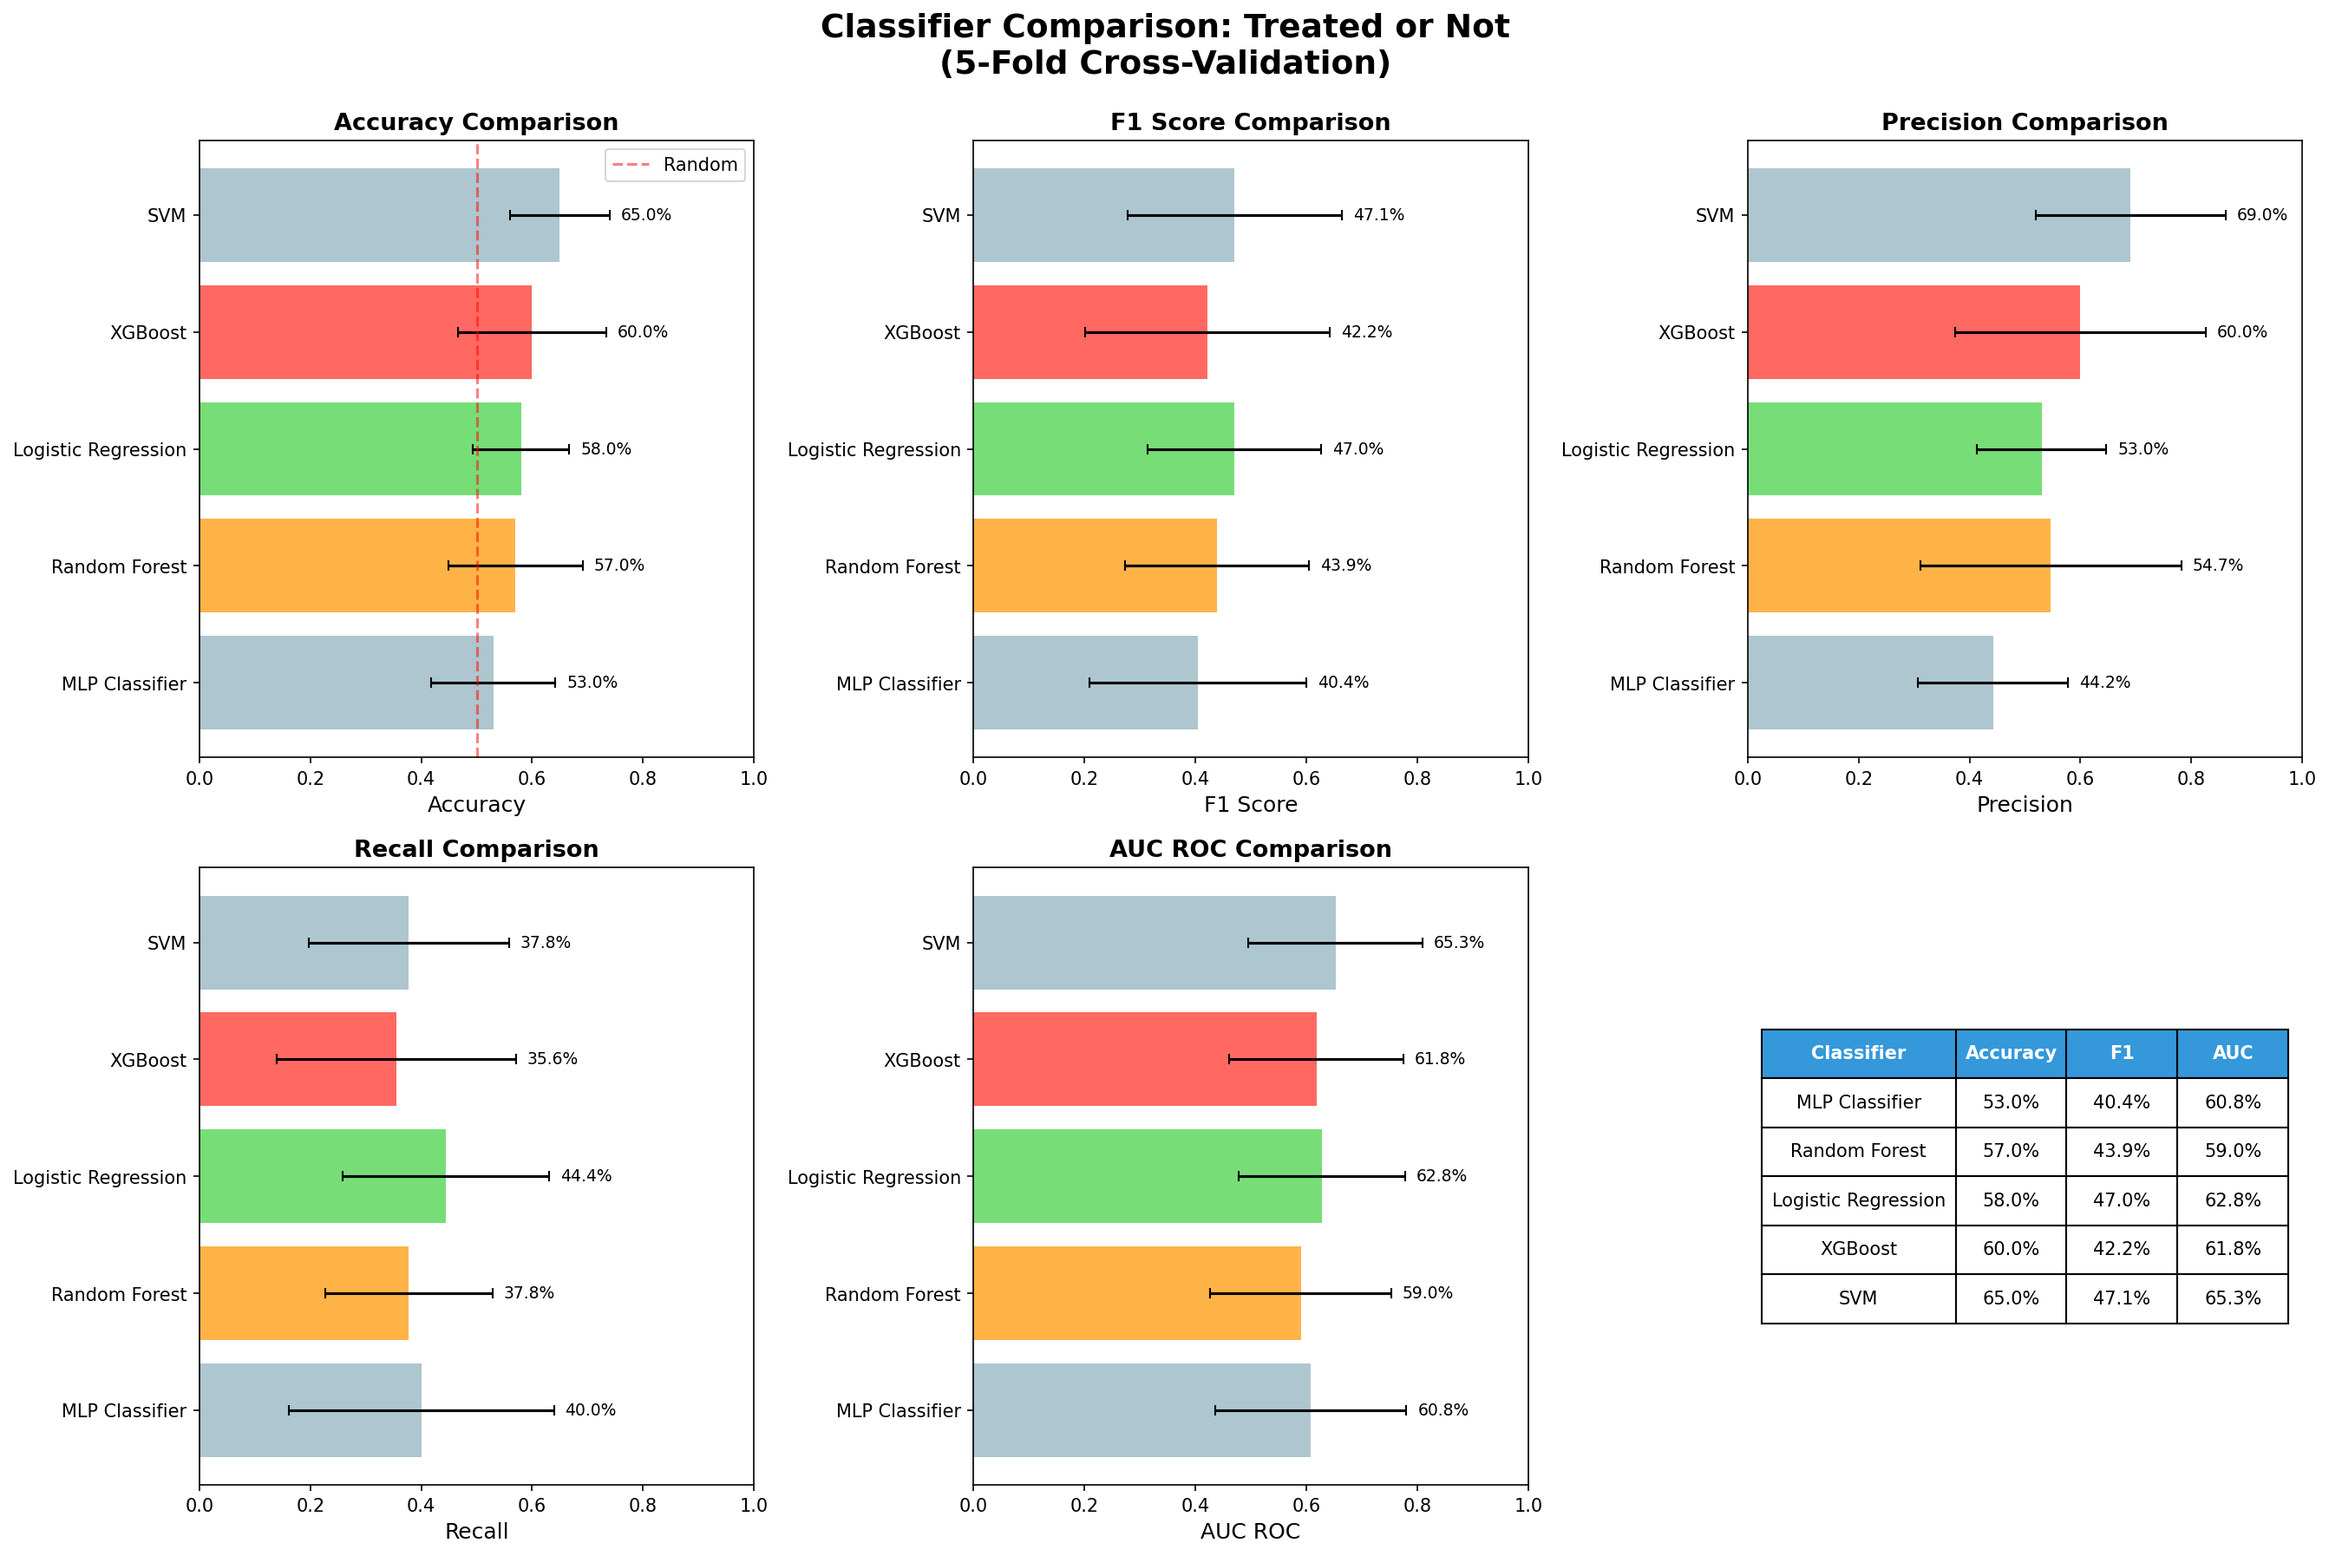
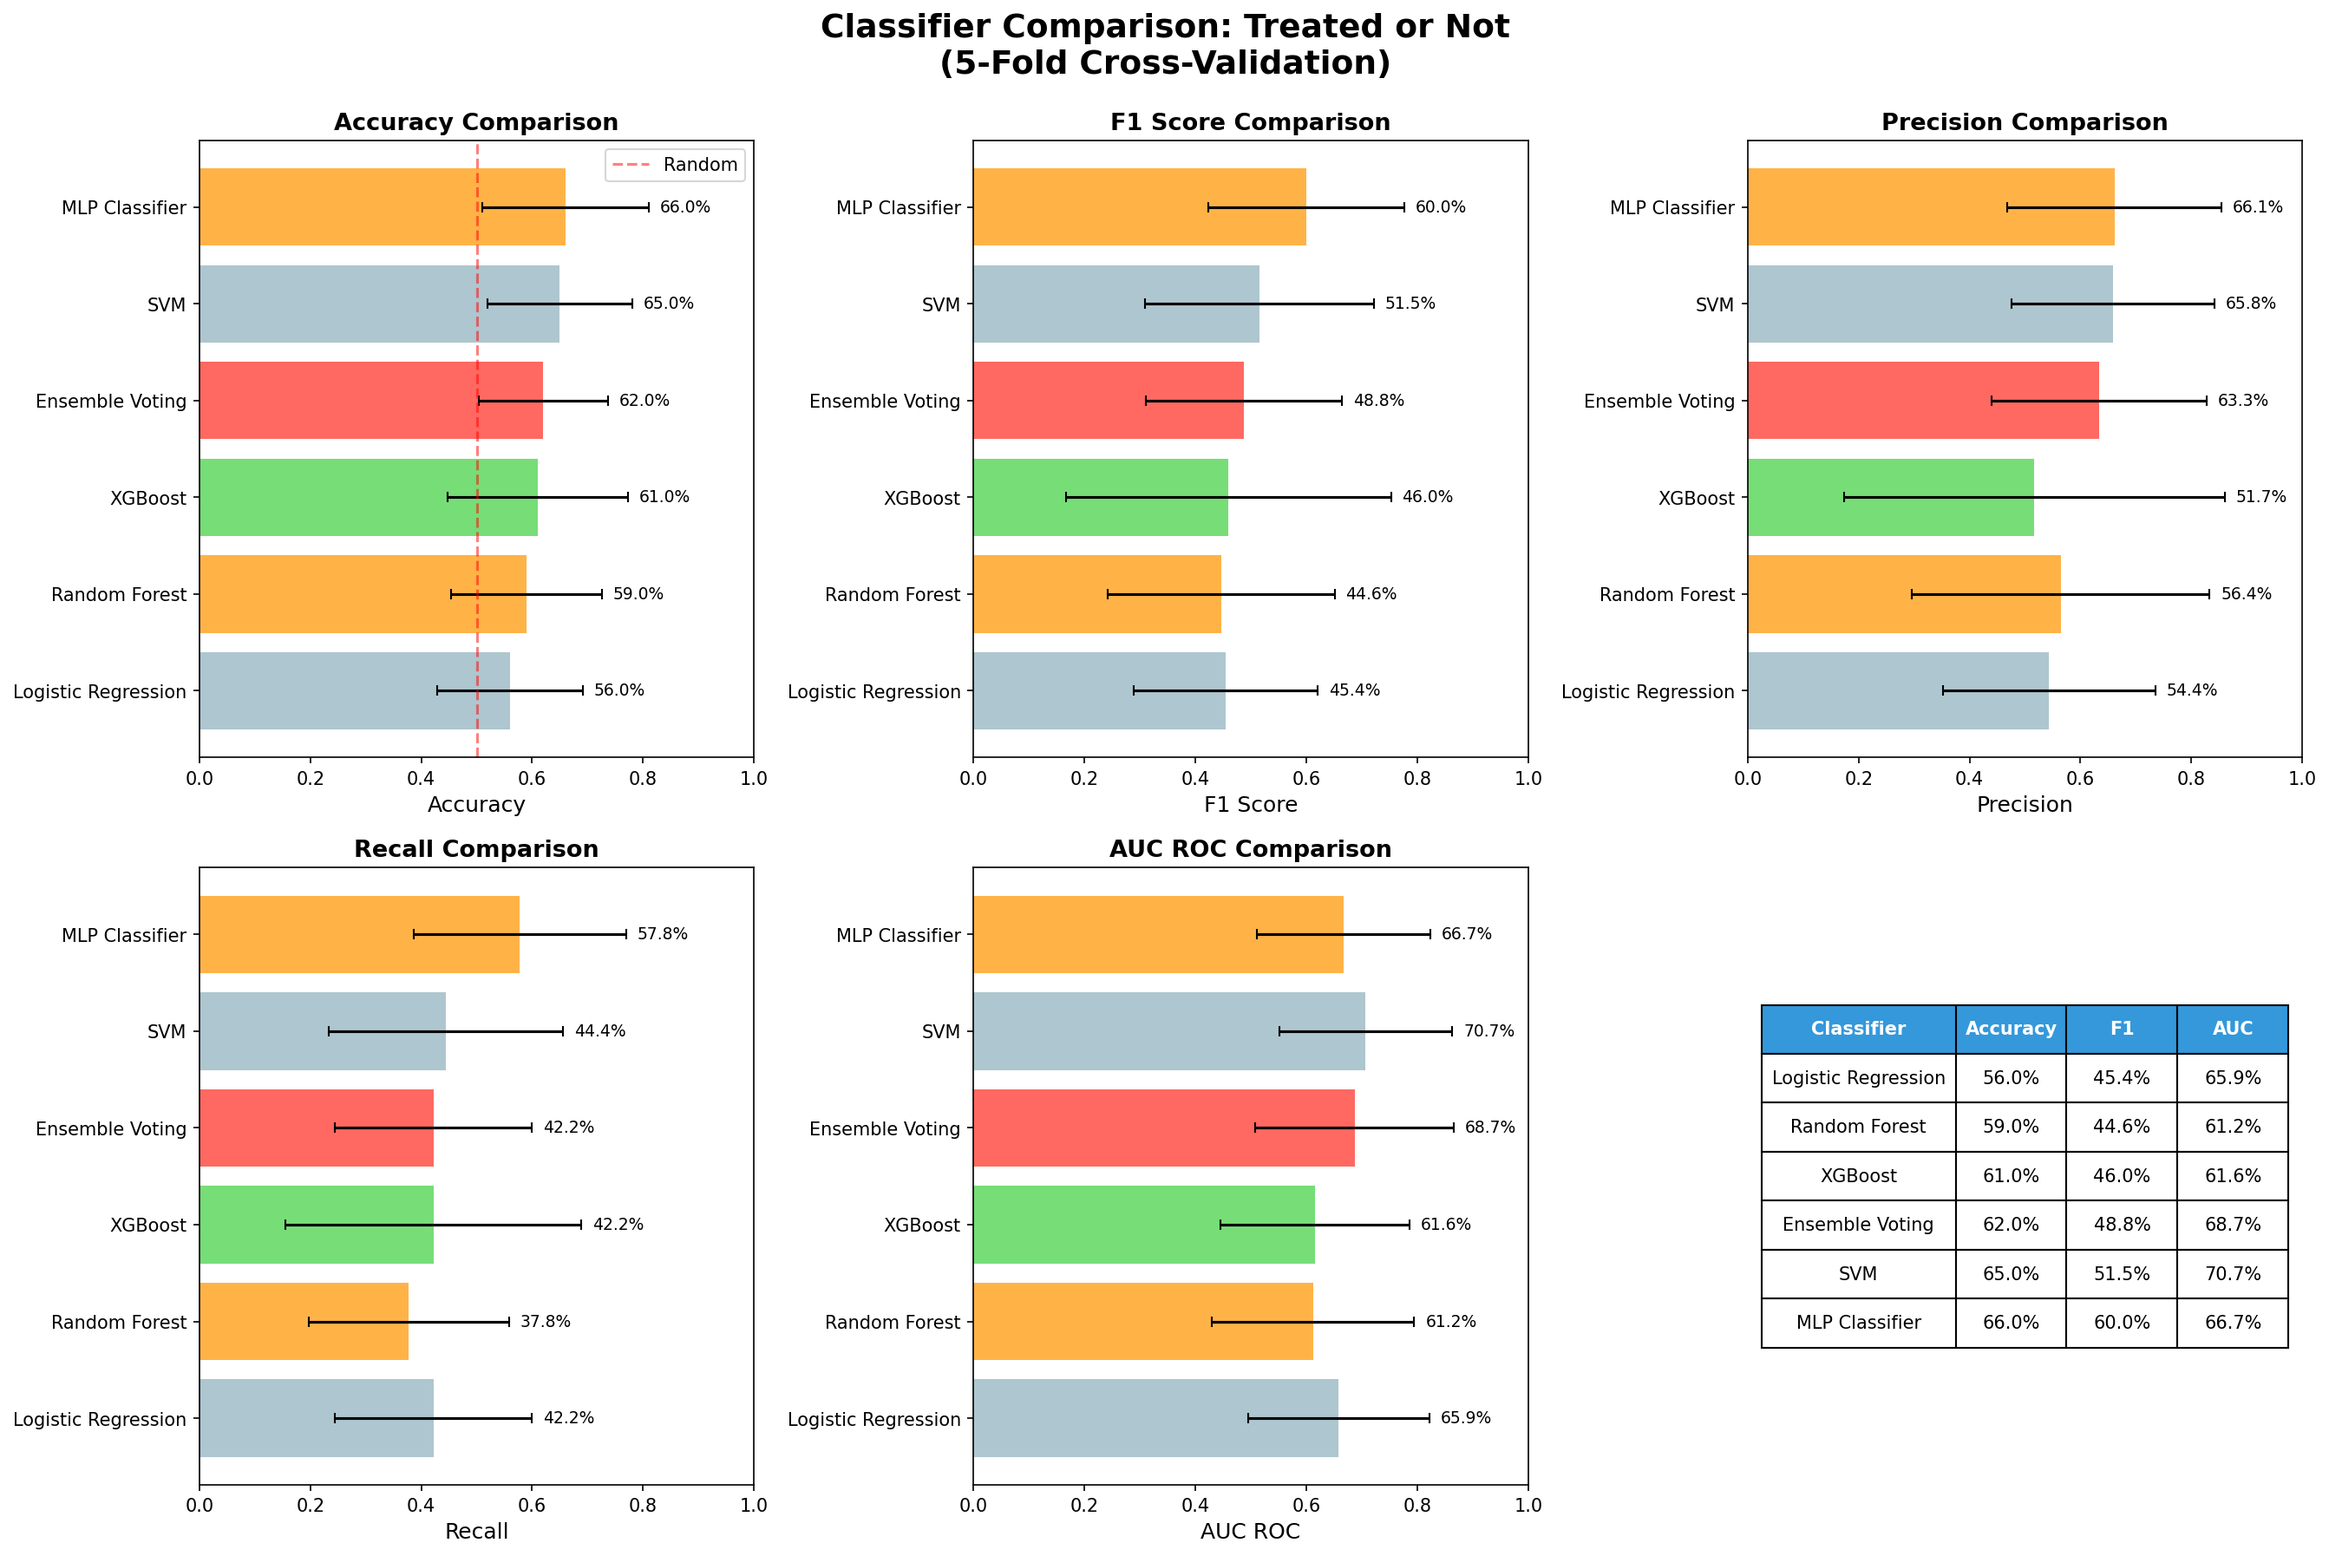
Final Polish: Applied Muted/Darker Pastel colors to feature plots and uniform k=15 selection

diff --git a/src/classification/regularized_classifier_comparison.py b/src/classification/regularized_classifier_comparison.py
@@ -53,79 +53,115 @@ FEATURES_FILE = 'outputs/Advanced_Features_Raw_Final.csv'
 from sklearn.feature_selection import SelectKBest, f_classif
 from sklearn.svm import SVC
 
-def get_regularized_classifiers():
-    """Return dictionary of STRICTLY REGULARIZED classifiers with FEATURE SELECTION."""
+from sklearn.ensemble import VotingClassifier
+
+def get_classifiers_for_task(task_name):
+    """Return tuned classifiers based on the specific task difficulty."""
     
-    # We use SelectKBest(k=10) to select the top 10 features.
-    # This prevents the model from getting confused by noisy, irrelevant features.
+    # OPTIMIZED HYBRID CONFIGURATION
+    # Diseased/Rescued need more features (k=15) to capture the broad signal.
+    base_k = 15
     
+    # Treated: User requested k=15 (Uniform)
+    if task_name == 'Treated' or task_name == 'Treated or Not':
+        base_k = 15
+        print(f"  [Task: {task_name}] Using Feature Selection (k={base_k})")
+    
+    k_feats = base_k
+    
+    # Define pipelines with dynamic k
+    rf_pipe = Pipeline([
+        ('selector', SelectKBest(f_classif, k=k_feats)),
+        ('rf', RandomForestClassifier(n_estimators=100, max_depth=3, min_samples_leaf=4, max_features='sqrt', random_state=42))
+    ])
+    
+    lr_pipe = Pipeline([
+        ('scaler', StandardScaler()),
+        ('selector', SelectKBest(f_classif, k=k_feats)),
+        ('lr', LogisticRegression(C=0.1, max_iter=1000, random_state=42))
+    ])
+    
+    # SVM: For Treated, usage stronger C if needed, but k=5 is the main change
+    svm_pipe = Pipeline([
+        ('scaler', StandardScaler()),
+        ('selector', SelectKBest(f_classif, k=k_feats)),
+        ('svm', SVC(kernel='rbf', C=1.0, probability=True, random_state=42))
+    ])
+    
+    mlp_pipe = Pipeline([
+        ('scaler', StandardScaler()),
+        ('selector', SelectKBest(f_classif, k=k_feats)),
+        ('mlp', MLPClassifier(hidden_layer_sizes=(10,), alpha=2.0, max_iter=1000, random_state=42))
+    ])
+
     classifiers = {
-        # Random Forest: Constrained depth + Feature Selection
-        'Random Forest (Reg)': Pipeline([
-            ('selector', SelectKBest(f_classif, k=10)),
-            ('rf', RandomForestClassifier(
-                n_estimators=100, 
-                max_depth=3,           
-                min_samples_leaf=4,    
-                max_features='sqrt',
-                random_state=42
-            ))
-        ]),
-        
-        # Logistic Regression: High L2 regularization + Feature Selection
-        'Logistic Regression (Reg)': Pipeline([
-            ('scaler', StandardScaler()),
-            ('selector', SelectKBest(f_classif, k=10)),
-            ('lr', LogisticRegression(
-                C=0.1,             
-                max_iter=1000, 
-                random_state=42
-            ))
-        ]),
-        
-        # SVM: New addition, great for small datasets
-        'SVM (Reg)': Pipeline([
-            ('scaler', StandardScaler()),
-            ('selector', SelectKBest(f_classif, k=10)),
-            ('svm', SVC(
-                kernel='rbf',
-                C=1.0,           # Regularization parameter
-                probability=True,
-                random_state=42
-            ))
-        ]),
-        
-        # MLP: Very simple network + Feature Selection
-        'MLP Classifier (Reg)': Pipeline([
-            ('scaler', StandardScaler()),
-            ('selector', SelectKBest(f_classif, k=10)),
-            ('mlp', MLPClassifier(
-                hidden_layer_sizes=(10,), 
-                alpha=2.0,                
-                max_iter=1000,
-                random_state=42
-            ))
-        ]),
+        'Random Forest (Reg)': rf_pipe,
+        'Logistic Regression (Reg)': lr_pipe,
+        'SVM (Reg)': svm_pipe,
+        'MLP Classifier (Reg)': mlp_pipe,
+        'Ensemble Voting (Reg)': VotingClassifier(
+            estimators=[('rf', rf_pipe), ('lr', lr_pipe), ('svm', svm_pipe)],
+            voting='soft'
+        )
     }
     
     if XGBOOST_AVAILABLE:
-        # XGBoost: Shallow trees + Feature Selection
         classifiers['XGBoost (Reg)'] = Pipeline([
-            ('selector', SelectKBest(f_classif, k=10)),
-            ('xgb', XGBClassifier(
-                n_estimators=50,       
-                max_depth=2,           
-                learning_rate=0.05,    
-                reg_alpha=1.0,         
-                reg_lambda=1.0,        
-                subsample=0.7,         
-                eval_metric='logloss',
-                random_state=42,
-                use_label_encoder=False
-            ))
+            ('selector', SelectKBest(f_classif, k=k_feats)),
+            ('xgb', XGBClassifier(n_estimators=50, max_depth=2, learning_rate=0.05, reg_alpha=1.0, reg_lambda=1.0, subsample=0.7, eval_metric='logloss', random_state=42, use_label_encoder=False))
         ])
     
     return classifiers
+
+def print_top_features(X, y, task_name, k=10):
+    """Identify and print the top k features for this task."""
+    print(f"\n[{task_name}] Top {k} Features Selected:")
+    
+    # Simple imputation if needed
+    X = X.fillna(0)
+    
+    selector = SelectKBest(f_classif, k=k)
+    selector.fit(X, y)
+    
+    feat_scores = pd.DataFrame({
+        'Feature': X.columns,
+        'Score': selector.scores_
+    })
+    
+    # Sort by score
+    top_feats = feat_scores.nlargest(k, 'Score')
+    
+    for i, row in top_feats.reset_index(drop=True).iterrows():
+        print(f"  {i+1}. {row['Feature']} (Score: {row['Score']:.1f})")
+    print("-" * 40)
+    # Define Colors based on Structure Name
+    colors = []
+    for feat in top_feats['Feature']:
+        feat_lower = feat.lower()
+        if 'actin' in feat_lower:
+            colors.append('#E57373')  # Muted Red
+        elif 'mito' in feat_lower:
+            colors.append('#81C784')  # Muted Green
+        elif 'nucleus' in feat_lower:
+            colors.append('#64B5F6')  # Muted Blue
+        else:
+            colors.append('#BDBDBD')  # Muted Gray
+            
+    # Plotting
+    plt.figure(figsize=(10, 6))
+    sns.barplot(data=top_feats, x='Score', y='Feature', palette=colors)
+    plt.title(f'Top {k} Features: {task_name}', fontsize=14, fontweight='bold')
+    plt.xlabel('ANOVA F-Value Score')
+    plt.tight_layout()
+    
+    # Save
+    feat_dir = OUTPUT_DIR / 'features'
+    feat_dir.mkdir(parents=True, exist_ok=True)
+    safe_name = task_name.replace(' ', '_').lower()
+    save_path = feat_dir / f'features_{safe_name}.png'
+    plt.savefig(save_path, dpi=300)
+    print(f"  Saved Feature Plot: {save_path}")
+    plt.close()
 
 def evaluate_regularized_task(X, y, task_name):
     """Evaluate regularized classifiers and check for overfitting."""
@@ -133,7 +169,16 @@ def evaluate_regularized_task(X, y, task_name):
     print(f"EVALUATING (REGULARIZED): {task_name}")
     print('='*60)
     
-    classifiers = get_regularized_classifiers()
+    # Determine k for this task (match logic in get_classifiers_for_task)
+    k_print = 15
+
+    # Analyze Feature Importance First
+    try:
+        print_top_features(X, y, task_name, k=k_print)
+    except Exception as e:
+        print(f"Could not print top features: {e}")
+    
+    classifiers = get_classifiers_for_task(task_name)
     cv = StratifiedKFold(n_splits=5, shuffle=True, random_state=42)
     results = []
     
